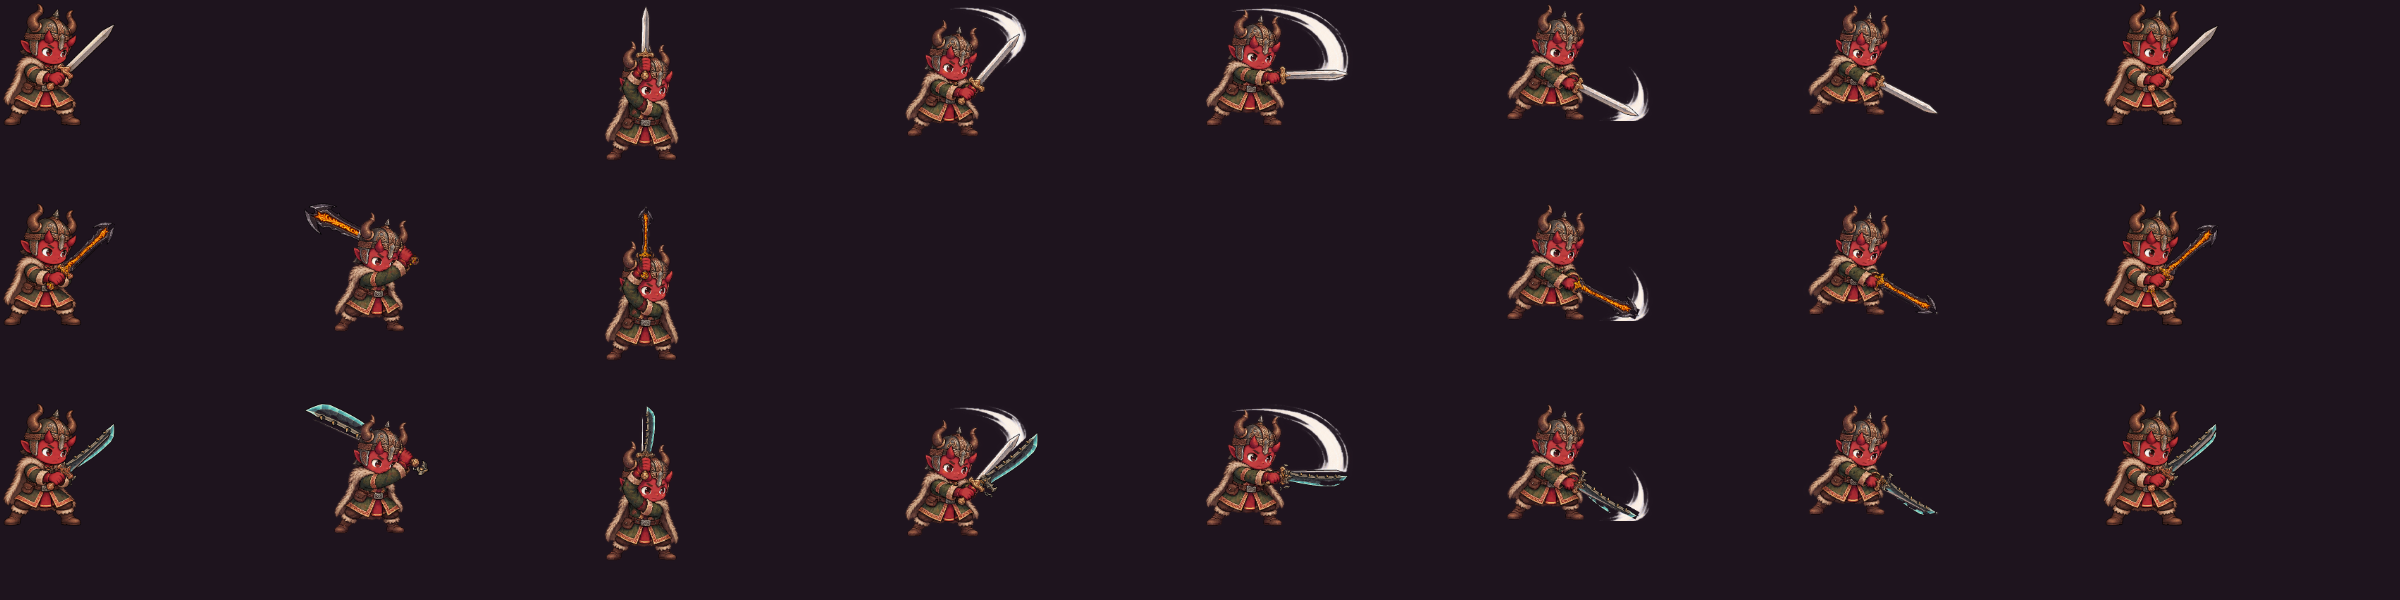
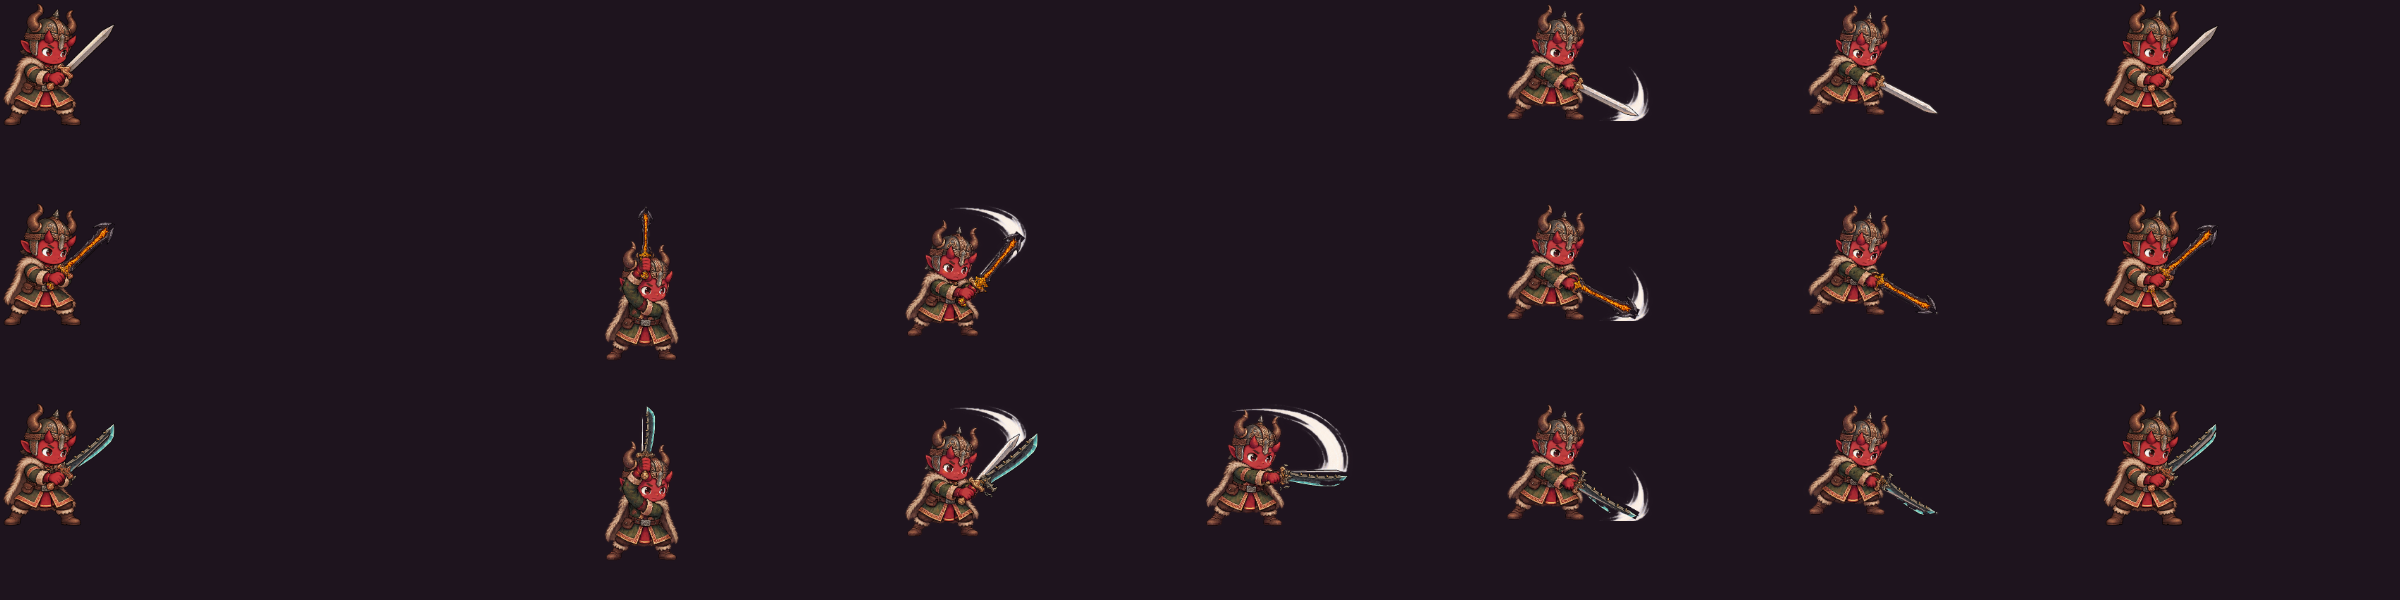
Dale: report merge G3c-A+G5, G4 hold, G3c-B

diff --git a/Output/Dale/2026-10-10-avegee-merge-g4.md b/Output/Dale/2026-10-10-avegee-merge-g4.md
@@ -1,0 +1,23 @@
+# AVEGEE — รวม G4 (ค้าง รอ Claudy) + G3c-B สไปรท์ฟัน fang/chain · 10 ต.ค. 2569
+
+## G4: **ยังไม่ push — บล็อกด้วยเทสต์ G5 balance ล้ม** (รอ Claudy ตัดสิน)
+- รวมเสร็จแล้วบน branch local `dale/merge-g4` (commit `5e5ec14`, แตกจาก main `9f54605`) · main/origin ไม่มี G4
+- ทำแล้ว: merge `toby/g4` (ชน `src/i18n.js` ที่เดียว แก้โดยเก็บคีย์ g5.* + `Rice Ball` ของ Toby) · `WEAPONS.cane.atk` .25 → .20 ตาม Claudy · แก้ `tests/g4-items-balance.test.mjs` ตามเลข +20% · cache-bust ui.js ต่อท้าย `-g4` · `node --check` ผ่าน
+- ผลเทสต์: 632 ข้อ ผ่าน 631 · **ล้ม 1:** `G5 balance: level 3 on both trainees increases each story encounter by at most 10 percentage points` → `cyber breach: +15.5 percentage points` (baseline 52% → 67.5% ที่ระดับควบคุมไฟ 3 ทั้งสองคน) · ฉากอื่นทุกฉาก delta 0
+- สาเหตุ: G4 เพิ่ม atk ศัตรู cyber breach ×1.5 ทำให้ฉากนี้เป็น "หน้าผา" (ไม่ใช่ 100% อีกแล้ว) พอลูกไฟแรงขึ้น +15% อัตราชนะจึงขยับเกิน 10 จุด · G5 วัดบอทกล่องยาปกติ ไม่ใช่ขนาดใหญ่
+- **ต้องให้ Claudy เลือก 1 ข้อ:** (ก) ผ่อนเกณฑ์ G5 สำหรับ cyber breach เป็น ≤16 จุด เพราะฉากนี้ตั้งใจให้ 70–90% และเป็นการลงทุนฝึก 3 ระดับ × 2 คน · (ข) ลดเพดานระดับควบคุมไฟ (เช่น +3%/ระดับ = +9%) · (ค) ปรับ atk cyber breach ลงเล็กน้อย
+- พอตัดสิน: แก้ 1 จุด (ข้อ ก = `output/Codex/g5/balance.mjs` บรรทัด `row.delta <= 10`) แล้ว `git checkout main && git merge dale/merge-g4` → เทสต์ → push (ทำได้ภายในไม่กี่นาที)
+- ยังไม่ได้เล่น Chrome ของ G4 (ร้านโซน 2 / ชื่อไอเท็ม / ปุ่มพักศาลา / คูลดาวน์อาวุธ) — จะเล่นหลัง merge จริง
+
+## G3c-B: **PASS** — push แล้ว `8e63139` (merge เหนือ origin `24b3a7d` H5a)
+- เพิ่มเฉพาะภาพ: `img/yama-sword-weapons/hero-yama-{th,asia,west,cyberhell}-sword-{fang,chain}.webp` (8 ไฟล์ 5120×640 RGBA ตรงสเปกแผ่น 8 เฟรม) + รายการ `img/manifest.json` / `img/preload-catalog.json` · ไม่เอา `output/` · ไม่รัน make-manifest
+- ชั้นโหลด H1: ตรวจ `assetTier` = tier 1 (background) rank 4 (กฎ `yama-sword`)
+- cache-bust: preload.js CATALOG_VERSION `...-h1-g5-g3cb` · art.js manifest `...-g5-g3cb`
+- เทสต์: `node --check src/*.js` ผ่าน · `node --test tests/*.test.mjs` 624/624
+- เล่นจริง Chrome (844×390) ศึกแหกคุก ฟาดปกติด้วยดาบเดิม/เขี้ยว/โซ่ ใน 4 ชุด (ไทย บูรพา ปัจฉิม เครือข่าย): จับเฟรมจาก canvas `yama-sword-animation` — ทุกชุดเห็นดาบเขี้ยว (ใบดำปลายเขี้ยว ลายส้ม) และดาบโซ่ (ใบฟ้า-เขียวดำมีโซ่) ฟาดไปทางขวาทุกเฟรมที่จับได้ แสงฟันตรงชุดเดิม · ภาพ contact sheet `Output/Dale/g5-evidence/g3cb-{th,asia,west,cyberhell}-frames.png` (แถวบน = ดาบเดิม กลาง = fang ล่าง = chain)
+- ข้อจำกัด: จับเฟรมด้วย polling ใน headless จึงขาดบางเฟรมต่อรอบ (แต่ครบ 8 เฟรมเมื่อรวมกัน) · ไม่ได้ดูบนมือถือจริง
+- ตรวจ Pages จริง: build `8e63139` · ไฟล์ 8 ภาพ 200 · เล่นซ้ำชุดปัจฉิมบน https://hellopae.github.io/AVEGEE/ เห็นเฟรมครบ ไม่มี exception
+- ย้อนกลับ: `git revert 8e63139` (merge เหนือ origin ไม่มี conflict) หรือ revert commit G3c-B (`git log --grep G3c-B`) แล้ว push · ไม่ force
+
+## worktree/branch
+ไม่ได้ลบ worktree ใดๆ · ไม่แตะ `.toby-worktrees/g4` · ไม่แตะ Codex run G3c-B (ใช้แค่อ่านไฟล์ภาพ)
